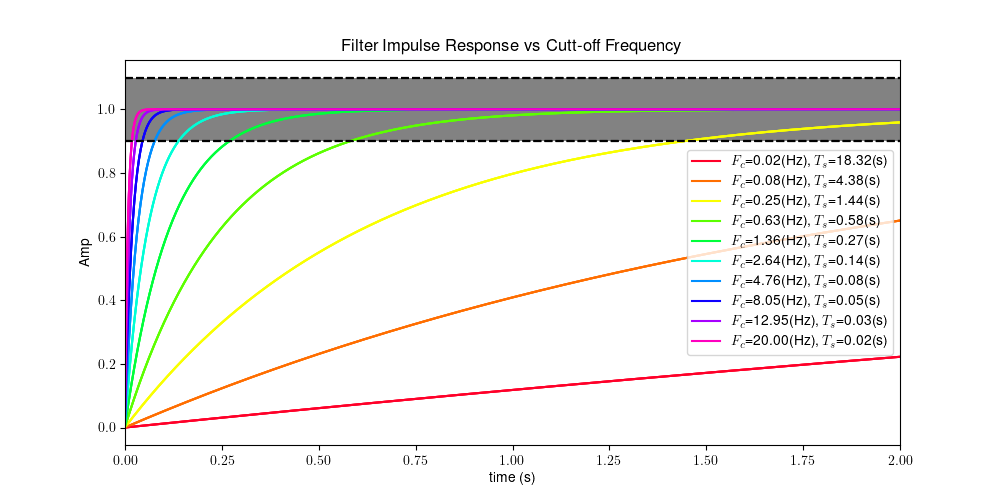
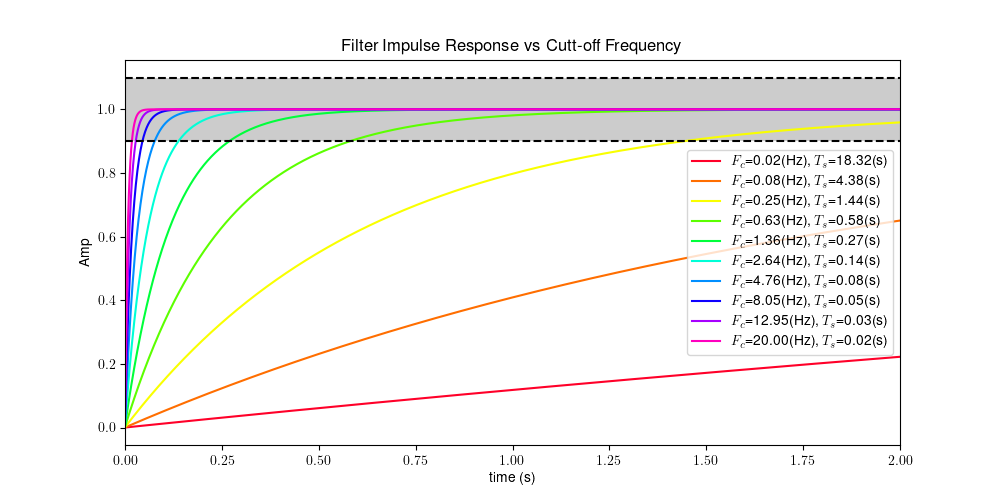
added figures related to filter design

diff --git a/Python Code/FilterDesign_FilterOrderVsSettlingTime.py b/Python Code/FilterDesign_FilterOrderVsSettlingTime.py
@@ -1,0 +1,145 @@
+#!/usr/bin/env ipython
+import numpy as np
+from numpy.core.fromnumeric import transpose
+from iir_filter import IIR_filter
+from scipy import signal
+import matplotlib.pyplot as plt
+from matplotlib.lines import Line2D
+from scipy.interpolate import interp1d
+import csv
+import os
+import glob as glob
+import re
+# this function will also test the settling time of different filter orders
+
+####### User params ############
+fs = 650   # Max 1000
+fn = fs / 2
+filterOrd = 1
+figuresRelPath = "Figures/" # figures dir relative to the project root
+saveNames = ["filterDesign_Bessel_ImpulseResp_MultipleFilterOrders.png",
+             "filterDesign_Bessel_SettleTimeVsFc_MultipleFilterOrders.png"]
+doSave = True
+doShow= True
+####### enable Tex rendering in plots ########################
+plt.rcParams.update({
+    "text.usetex": True,
+    "font.family": "sans-serif",
+    "font.sans-serif": ["Helvetica"]})
+####### figure out where the project root is ############
+currentFilePath = os.getcwd()
+rootDir = os.path.dirname(currentFilePath)  # this goes up 2 directory levels
+figuresDirAbsPath = os.path.join(rootDir, figuresRelPath)
+savePath=[]
+for i in range(len(saveNames)):
+    savePath.append(os.path.join(figuresDirAbsPath,saveNames[i]))
+def powspace(start, stop, power, num):
+    start = np.power(start, 1/float(power))
+    stop = np.power(stop, 1/float(power))
+    return np.power( np.linspace(start, stop, num=num), power)
+
+def testFilter(IIRCoeficients,testSignal):
+    testFilter = IIR_filter(IIRCoeficients)
+    fSignal = np.empty(len(testSignal))
+    for i in range(len(testSignal)):
+        fSignal[i] = testFilter.filter(testSignal[i])
+    return fSignal
+
+ntraces = 10
+# creates an exponentialy spaced array of cuttof frequencies to test
+fc2test = powspace(0.02,20,5, ntraces)
+filterOrder2Test = [2,4,6,8]
+ii =0
+sos = []
+
+#define step
+tTest_s = 30 # time to plot filter response for
+nsamples = fs*tTest_s
+step = np.ones(nsamples)
+t = np.arange(0,tTest_s,1/fs)
+
+#
+#n3DbPoint = 10**(-3/20)
+settledThreshPc = 10
+settledThresh = 1-settledThreshPc/100
+
+# plt.figure(0,figsize=(10,10))
+fig0, (ax0,ax1) = plt.subplots(2,1,figsize=(10,10))
+fig1, ax0_1 = plt.subplots(1,1,figsize=(10,5))
+colors = plt.cm.gist_rainbow(np.linspace(0, 1, ntraces))
+linestyles = ["-","--",":","-."]
+#loop through all filter designs
+
+settlingTime = []
+legendList = []
+for i in range(len(filterOrder2Test)):
+    thisfilterOrder = filterOrder2Test[i]
+    #loop through all of the cuttoff frequecies and calculate the settling time
+    settlingTime.append(np.empty(ntraces)) # a list of arrays
+    ii= 0
+    for fc in fc2test:
+        #filter design
+        sos = signal.bessel(thisfilterOrder, fc / fn, "lowpass", output="sos", norm="mag")
+
+        # here we effectively cascade all of the biquads
+        testSignal = step
+        testSignal = testFilter(sos, testSignal)
+
+        # filter frequency response
+        wnorm,freqRespMag = signal.sosfreqz(sos,worN=2**18)
+        freqRespSiFreqs = (wnorm/np.pi)*fn
+        if testSignal[-1]<settledThresh: # if the last val < thresh interp wont work
+            thisSettlingTime = np.inf
+        else:
+            settlingTimeFcn = interp1d(testSignal,t,kind = "linear")
+            thisSettlingTime = settlingTimeFcn(settledThresh)
+        settlingTime[i][ii] = thisSettlingTime
+        # plot the timedomain impulse response
+        ax0.plot(t, testSignal, color=colors[ii], linestyle=linestyles[i])
+
+        # plot the frequency response
+        ax1.semilogx(freqRespSiFreqs, (abs(freqRespMag)), color = colors[ii],linestyle=linestyles[i])
+        ax1.axvline(fc, linestyle="--", linewidth = 0.5, color=colors[ii])
+
+        # add legend entry
+        if i ==0:
+            legendList.append(f"$F_c$={fc:.2f}(Hz)" )
+        ii += 1 # increment the index
+ax0.set_title("Filter Impulse Response vs Cutt-off Frequency")
+ax0.plot([0,tTest_s],[1.1,1.1], "k--")
+ax0.plot([0,tTest_s], [settledThresh,settledThresh], "k--")
+ax0.set_xlim([0,2])
+ax0.axhspan(settledThresh,1.1,facecolor='k', alpha=0.2)
+custom_lines = []
+legendList3 = []
+for i in range(len(filterOrder2Test)):
+    custom_lines.append(Line2D([0], [0], color=colors[0], lw=2, linestyle=linestyles[i]))
+    legendList3.append(f"Bessel Filt Ord:{filterOrder2Test[i]}")
+ax0.legend(custom_lines, legendList3,loc='center right')
+
+custom_lines = []
+for i in range((ntraces)):
+    custom_lines.append(Line2D([0], [0], color=colors[i], lw=2 ))
+ax1.legend(custom_lines, legendList, loc='center right')
+ax0.set_xlabel("time (s)")
+ax0.set_ylabel("Amplitude")
+ax1.set_ylabel("Amplitude $(|x|)$")
+ax1.set_xlabel("Frequency (Hz)")
+# ax1.set_ylim([-10,0])
+if doSave:
+    fig0.savefig(savePath[0])
+
+ax0_1.set_title("Settling Time vs Cutt-off Frequency")
+legendList2 = []
+for i in range(len(filterOrder2Test)):
+    ax0_1.plot(fc2test,settlingTime[i][:],linestyle=linestyles[i])
+    legendList2.append(f"Bessel Filt Ord: {filterOrder2Test[i]}")
+ax0_1.set_ylabel(f"Settling time(s) ($\pm${settledThreshPc}\\%)")
+ax0_1.set_xlabel("Cuttof Freq (Hz)")
+ax0_1.legend(legendList2)
+ax0_1.set_ylim([0,10])
+ax0_1.set_xlim([0,10])
+if doSave:
+    fig1.savefig(savePath[1])
+if doShow:
+    plt.show()

diff --git a/Python Code/FilterDesign_SettlingTime.py b/Python Code/FilterDesign_SettlingTime.py
@@ -17,7 +17,7 @@ filterOrd = 1
 figuresRelPath = "Figures/" # figures dir relative to the project root
 saveNames = ["filterDesign_ImpulseResp.png","filterDesign_SettleTimeVsFc.png"]
 doSave = True
-doShow= False
+doShow=True
 ####### enable Tex rendering ########################
 plt.rcParams.update({
     "text.usetex": True,
@@ -66,7 +66,7 @@ plt.figure(0,figsize=(10,5))
 colors = plt.cm.gist_rainbow(np.linspace(0, 1, ntraces))
 idx= 0
 for fc in fc2test:
-    sos.insert(idx,signal.butter(filterOrd, fc / fn, "lowpass", output="sos"))
+    sos.insert(idx,signal.bessel(filterOrd, fc / fn, "lowpass", output="sos", norm="mag"))
     testSignal = testFilter(sos[idx], step)
     if testSignal[-1]<settledThresh: # if the last val < thresh interp wont work
         settlingTime[idx] = np.inf
